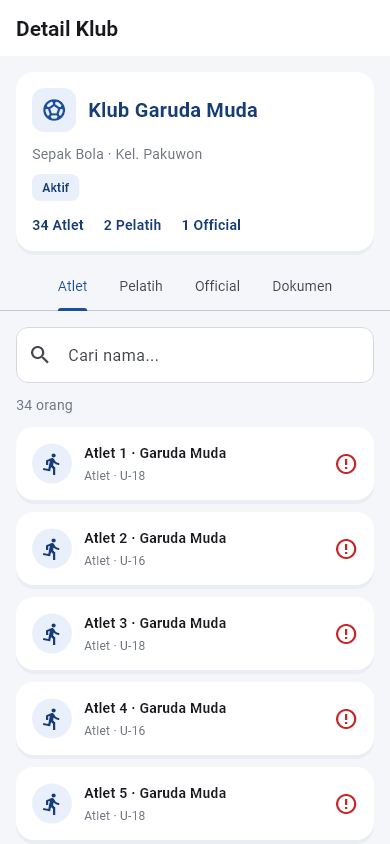
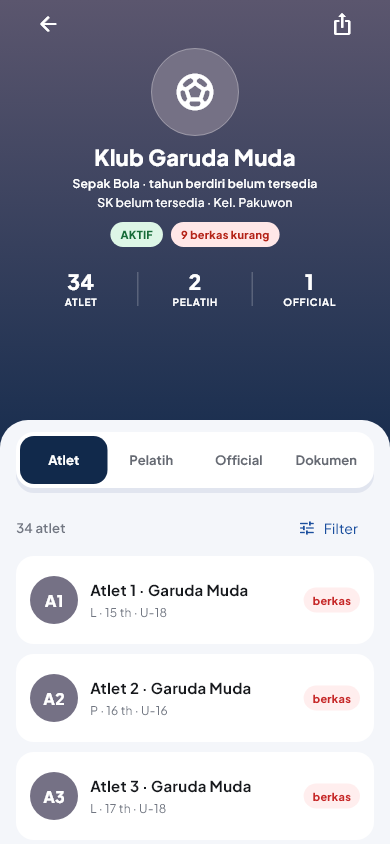
test: add responsive and golden coverage for club detail

diff --git a/test/app_test.dart b/test/app_test.dart
@@ -289,6 +289,13 @@ void main() {
       container.read(routerProvider).go(route);
       await tester.pumpAndSettle();
       expect(tester.takeException(), isNull, reason: route);
+      if (route == '/club/garuda') {
+        for (final label in ['Atlet', 'Pelatih', 'Official', 'Dokumen']) {
+          await tester.tap(find.text(label));
+          await tester.pumpAndSettle();
+          expect(tester.takeException(), isNull, reason: '$route: $label');
+        }
+      }
     }
     container.read(routerProvider).go('/clubs');
     await tester.pumpAndSettle();
@@ -298,6 +305,24 @@ void main() {
     await tester.tap(find.text('Reset filter'));
     await tester.pumpAndSettle();
     expect(find.text('Klub Garuda Muda'), findsOneWidget);
+  });
+
+  testWidgets('club detail supports 1.3 text scale without overflow', (
+    tester,
+  ) async {
+    tester.platformDispatcher.textScaleFactorTestValue = 1.3;
+    addTearDown(tester.platformDispatcher.clearTextScaleFactorTestValue);
+    final container = await start(tester, width: 320);
+    await container
+        .read(sessionProvider.notifier)
+        .signIn('DEMO-001', 'kokgarut123', false);
+    container.read(routerProvider).go('/club/garuda');
+    await tester.pumpAndSettle();
+    for (final label in ['Atlet', 'Pelatih', 'Official', 'Dokumen']) {
+      await tester.tap(find.text(label));
+      await tester.pumpAndSettle();
+      expect(tester.takeException(), isNull, reason: label);
+    }
   });
 
   testWidgets('HomePage renders floating card, decorations, stats, and sections', (

diff --git a/test/preview_test.dart b/test/preview_test.dart
@@ -45,6 +45,8 @@ void main() {
         'anggota': '/committee',
         'profil': '/profile',
         'detail-klub': '/club/garuda',
+        'detail-klub-pb': '/club/pb',
+        'detail-klub-voli': '/club/voli',
         'perlu-perhatian': '/attention',
       }.entries) {
         container.read(routerProvider).go(entry.value);
